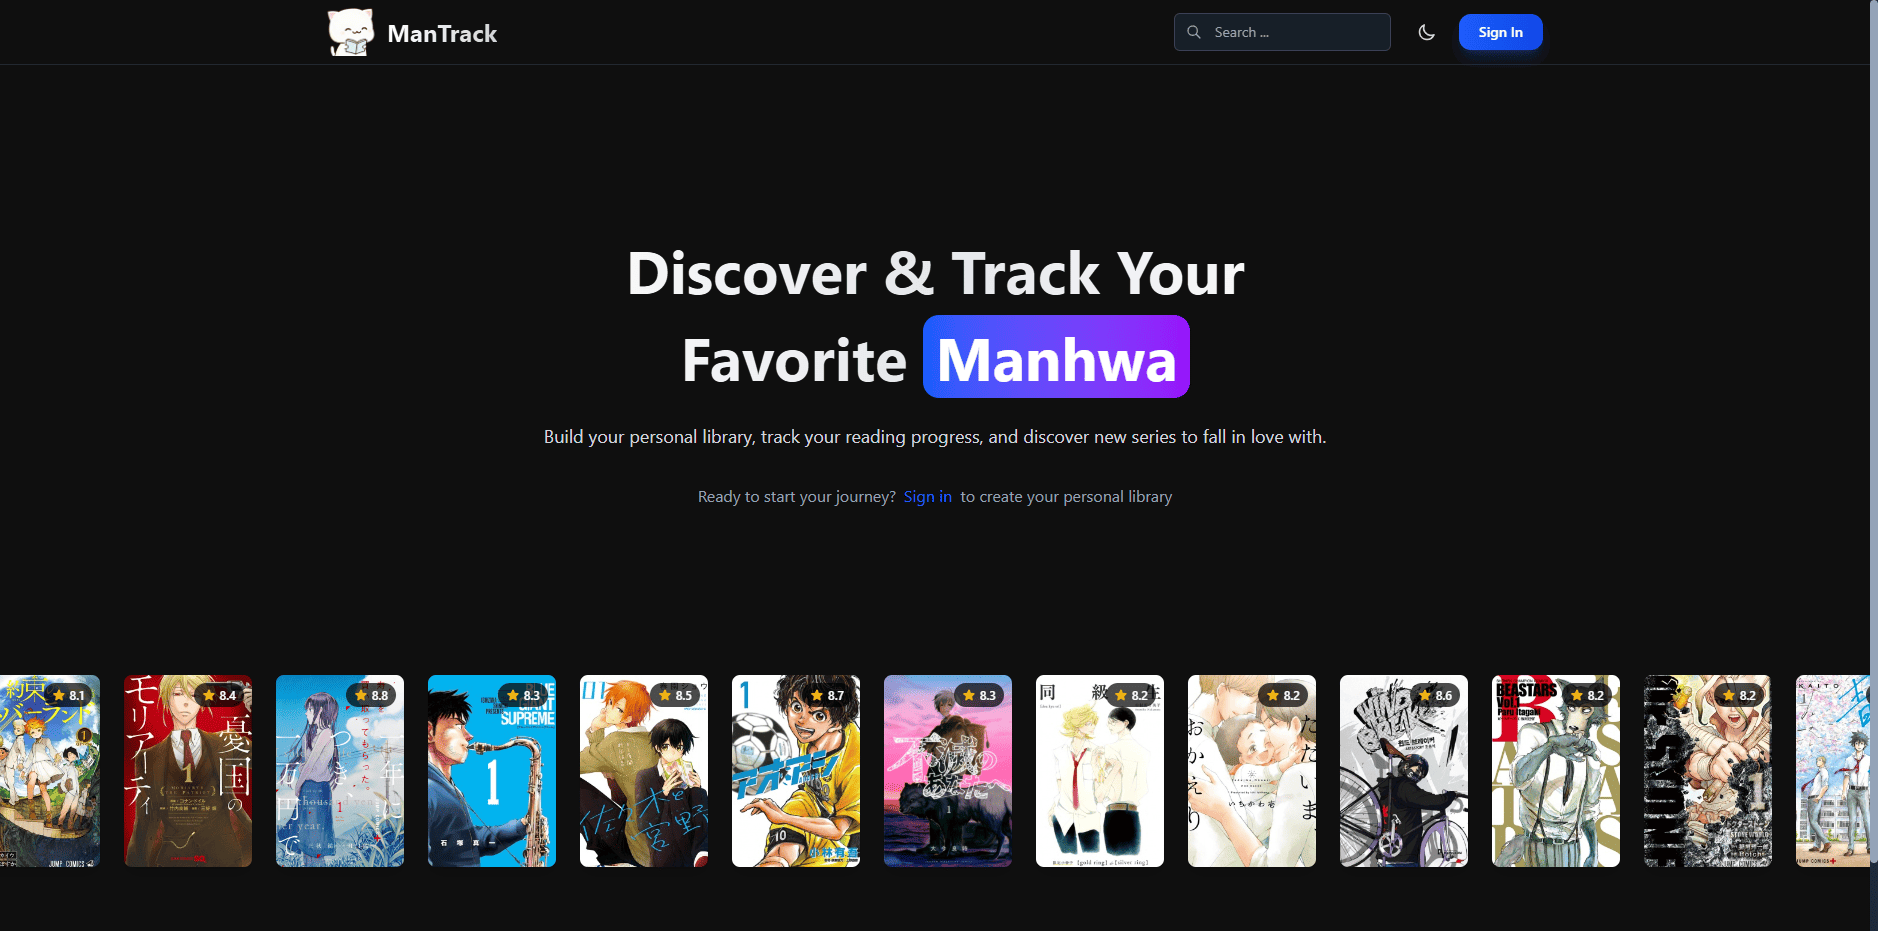
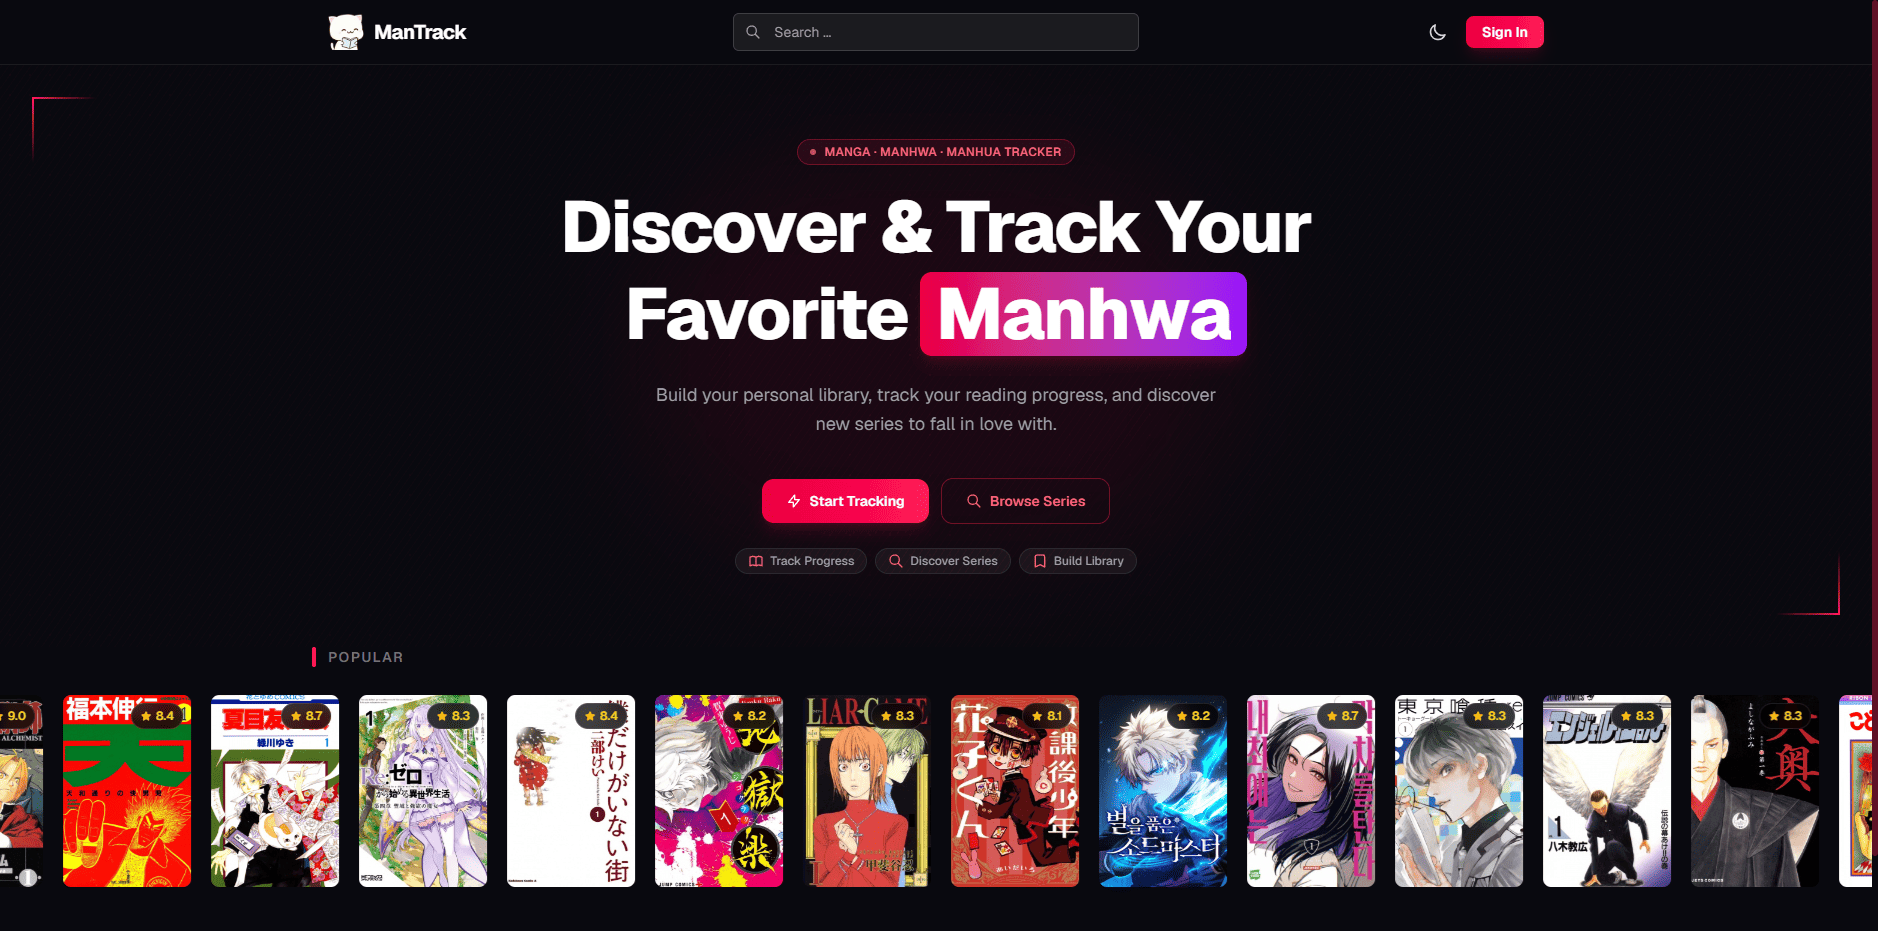
✨ Add Kiro to projects

diff --git a/src/data/graphConfig.ts b/src/data/graphConfig.ts
@@ -288,7 +288,7 @@ export const createInitialEdges = (): Edge[] => {
       id: 'ecat-ygodle',
       source: 'projects-cat',
       target: 'project-ygodle',
-      sourceHandle: 'bottom-source',
+      sourceHandle: 'left-source',
       targetHandle: 'right-target',
       type: 'default',
       style: { stroke: '#fff', strokeWidth: 2 },
@@ -298,7 +298,7 @@ export const createInitialEdges = (): Edge[] => {
       id: 'ecat-solar-system',
       source: 'projects-cat',
       target: 'project-solar-system',
-      sourceHandle: 'left-source',
+      sourceHandle: 'bottom-source',
       targetHandle: 'right-target',
       type: 'default',
       style: { stroke: '#fff', strokeWidth: 2 },
@@ -308,7 +308,7 @@ export const createInitialEdges = (): Edge[] => {
       id: 'ecat-bomberman',
       source: 'projects-cat',
       target: 'project-bomberman',
-      sourceHandle: 'left-source',
+      sourceHandle: 'top-source',
       targetHandle: 'right-target',
       type: 'default',
       style: { stroke: '#fff', strokeWidth: 2 },
@@ -318,7 +318,17 @@ export const createInitialEdges = (): Edge[] => {
       id: 'ecat-mantrack',
       source: 'projects-cat',
       target: 'project-mantrack',
-      sourceHandle: 'top-source',
+      sourceHandle: 'left-source',
+      targetHandle: 'right-target',
+      type: 'default',
+      style: { stroke: '#fff', strokeWidth: 2 },
+      animated: false,
+    },
+    {
+      id: 'ecat-kiro',
+      source: 'projects-cat',
+      target: 'project-kiro',
+      sourceHandle: 'left-source',
       targetHandle: 'right-target',
       type: 'default',
       style: { stroke: '#fff', strokeWidth: 2 },